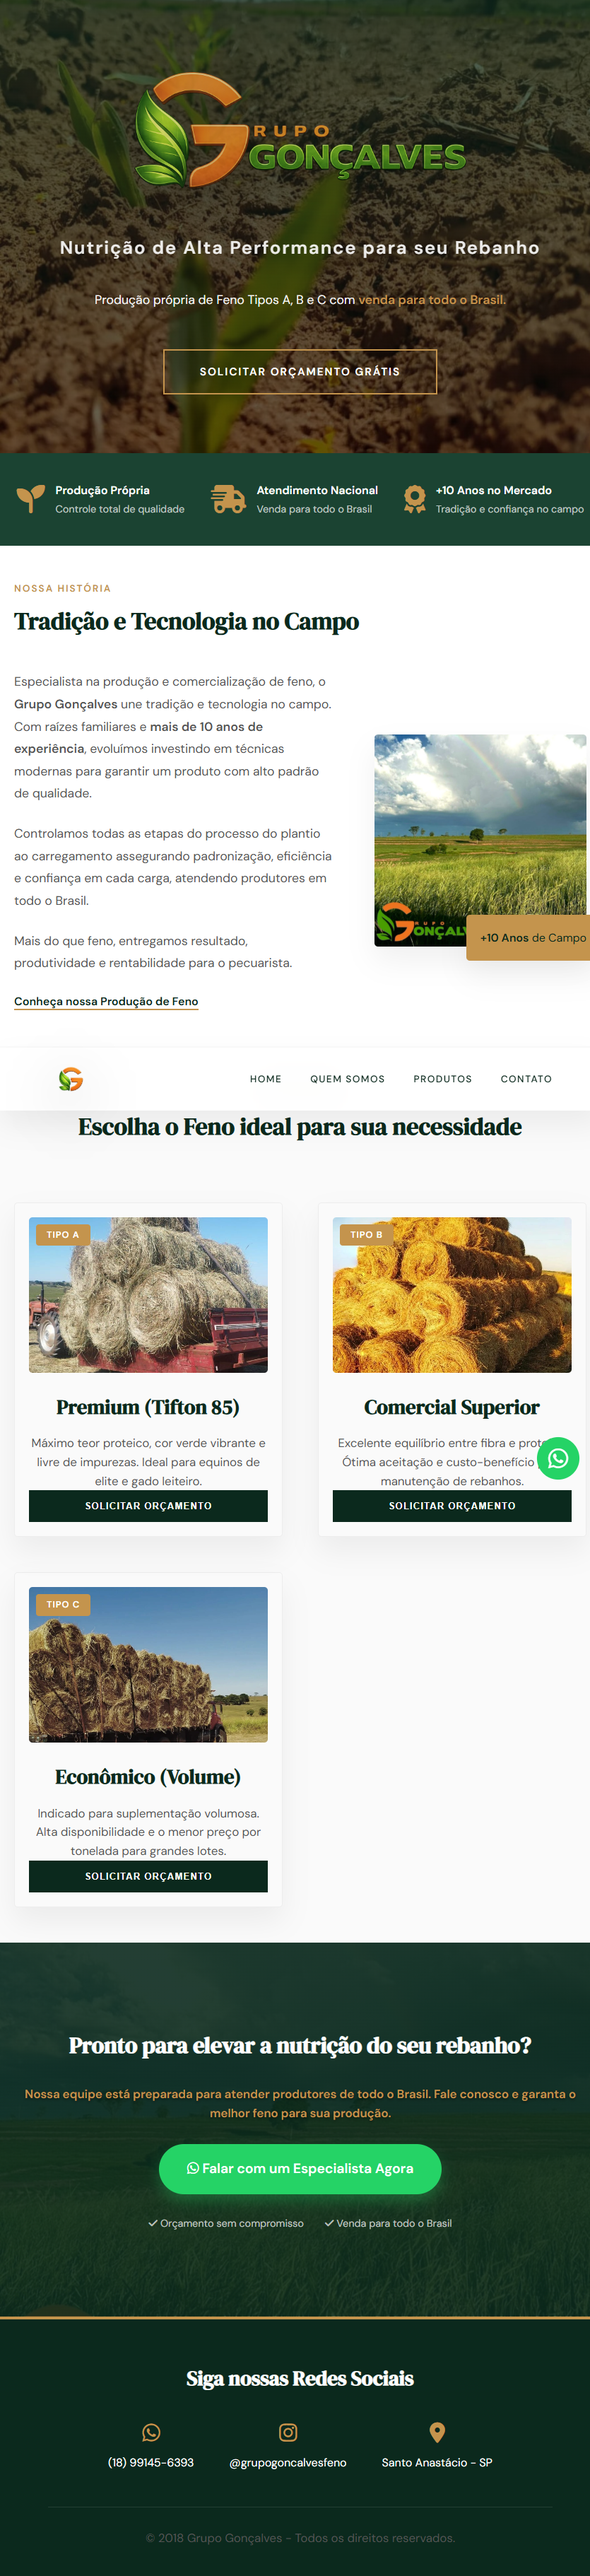
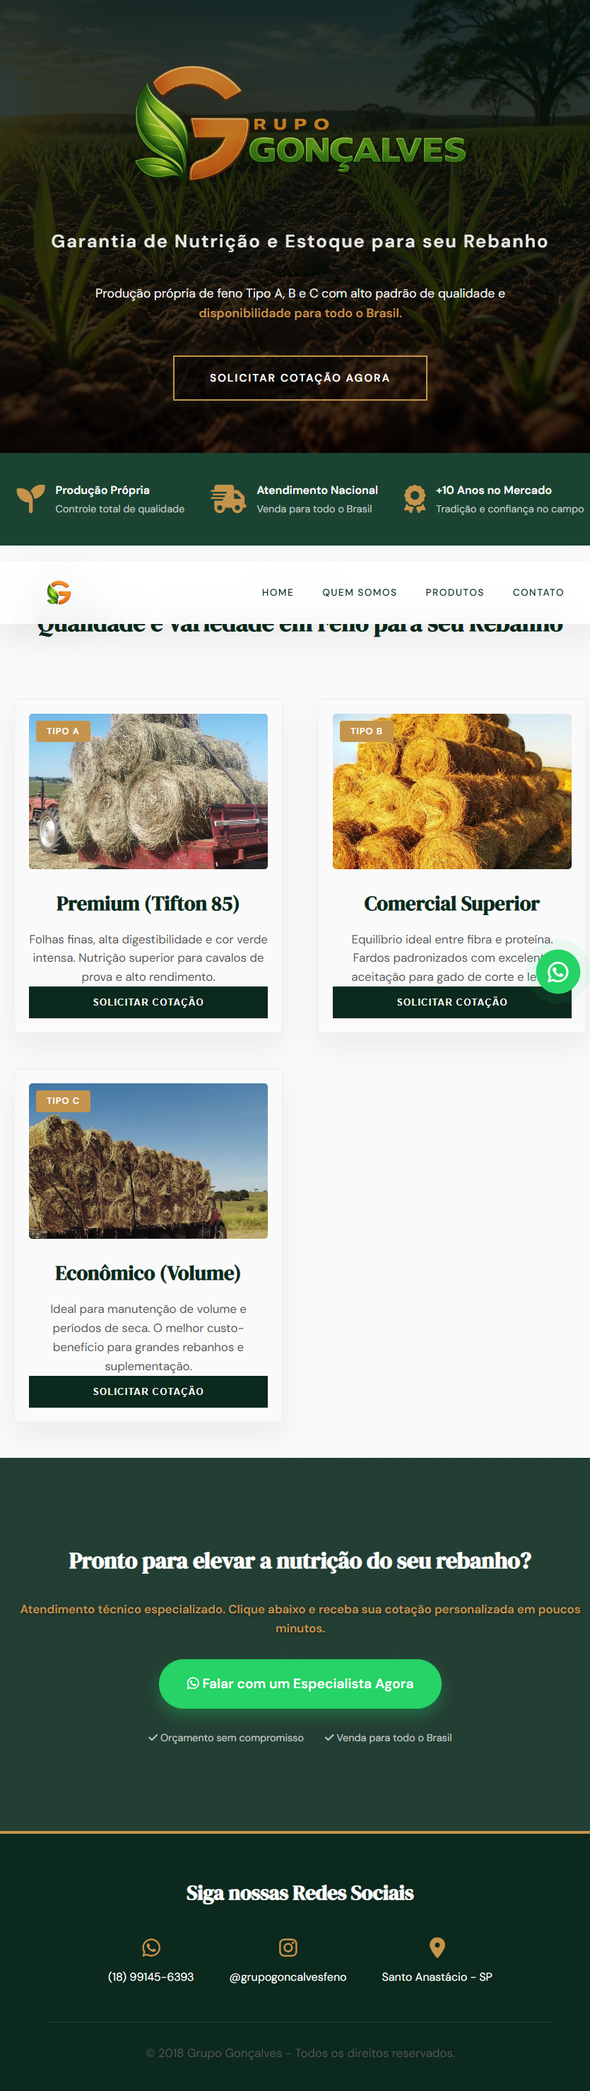
fix: ajusta imagem e texto no footer

diff --git a/index.html b/index.html
@@ -155,7 +155,7 @@
             </div>
         </div>
         <div class="footer-bottom">
-            <p>&copy; 2018 Grupo Gonçalves - Todos os direitos reservados.</p>
+            <p>&copy; 2026 Grupo Gonçalves - Todos os direitos reservados.</p>
         </div>
     </footer>
 
